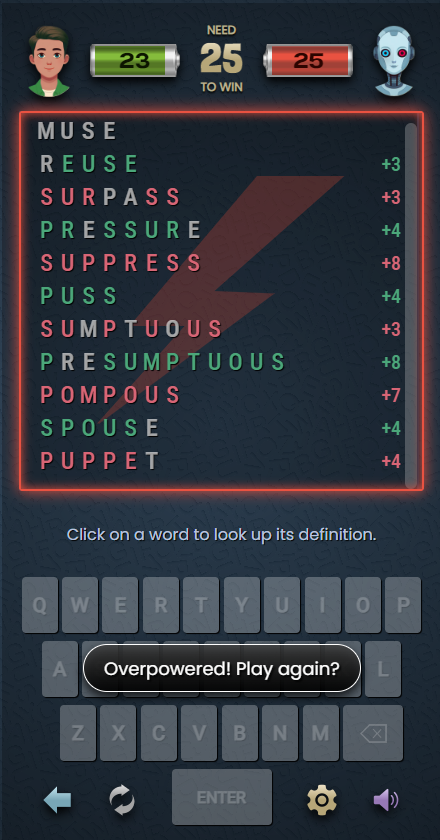
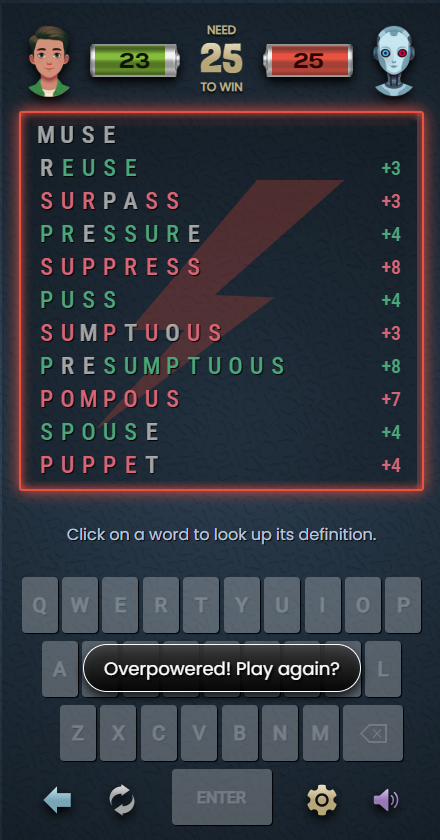
.

diff --git a/src/Prompts.jsx b/src/Prompts.jsx
@@ -1,7 +1,7 @@
 import { useAtom } from 'jotai';
 import PromptPanel from './Prompt Panel';
 import { a_flip, a_mode, a_over, a_restart, a_resume } from './atoms';
-import { MODE_ROBOT, X } from './const';
+import { BLUEISH, HOT_PINK, LIME, MODE_ROBOT, X } from './const';
 import useKeyboard from './useKeyboard';
 import { defer } from './utils';
 
@@ -27,20 +27,24 @@ const Propmts = () => {
     };
 
     let overPrompt = null;
+    let border = `3px solid ${BLUEISH}`;
+    const greenBorder = `3px solid ${LIME}`;
+    const redBorder = `3px solid ${HOT_PINK}`;
 
     switch (over) {
-        case 'won': overPrompt = 'More power to you!'; break;
-        case 'lost': overPrompt = 'Overpowered!'; break;
+        case 'won': overPrompt = 'More power to you!'; border = greenBorder; break;
+        case 'lost': overPrompt = 'Overpowered!'; border = redBorder; break;
         case 'draw': overPrompt = 'Power draw!'; break;
-        case 'player1wins': overPrompt = 'Player 1 strikes!'; break;
-        case 'player2wins': overPrompt = 'Player 2 strikes!'; break;
+        case 'player1wins': overPrompt = 'Player 1 strikes!'; border = greenBorder; break;
+        case 'player2wins': overPrompt = 'Player 2 strikes!'; border = redBorder; break;
         default: break;
     }
 
     overPrompt = `${overPrompt} Play again?`;
+    const done = over && !flip;
 
     return <>
-        <PromptPanel labels={[overPrompt]} onClick={onResponse} show={over && !flip} />
+        <PromptPanel labels={[overPrompt]} onClick={onResponse} show={done} buttonStyle={{ border }} />
         <PromptPanel labels={[`${mode === MODE_ROBOT ? 'Give up' : 'Start over'}?`, X]} onClick={onResponse} show={restart && !flip} />
         <PromptPanel labels={['RESUME']} onClick={onResponse} show={resume && !restart && !over} pulse buttonStyle={{ fontSize: '22px' }} />
     </>;
